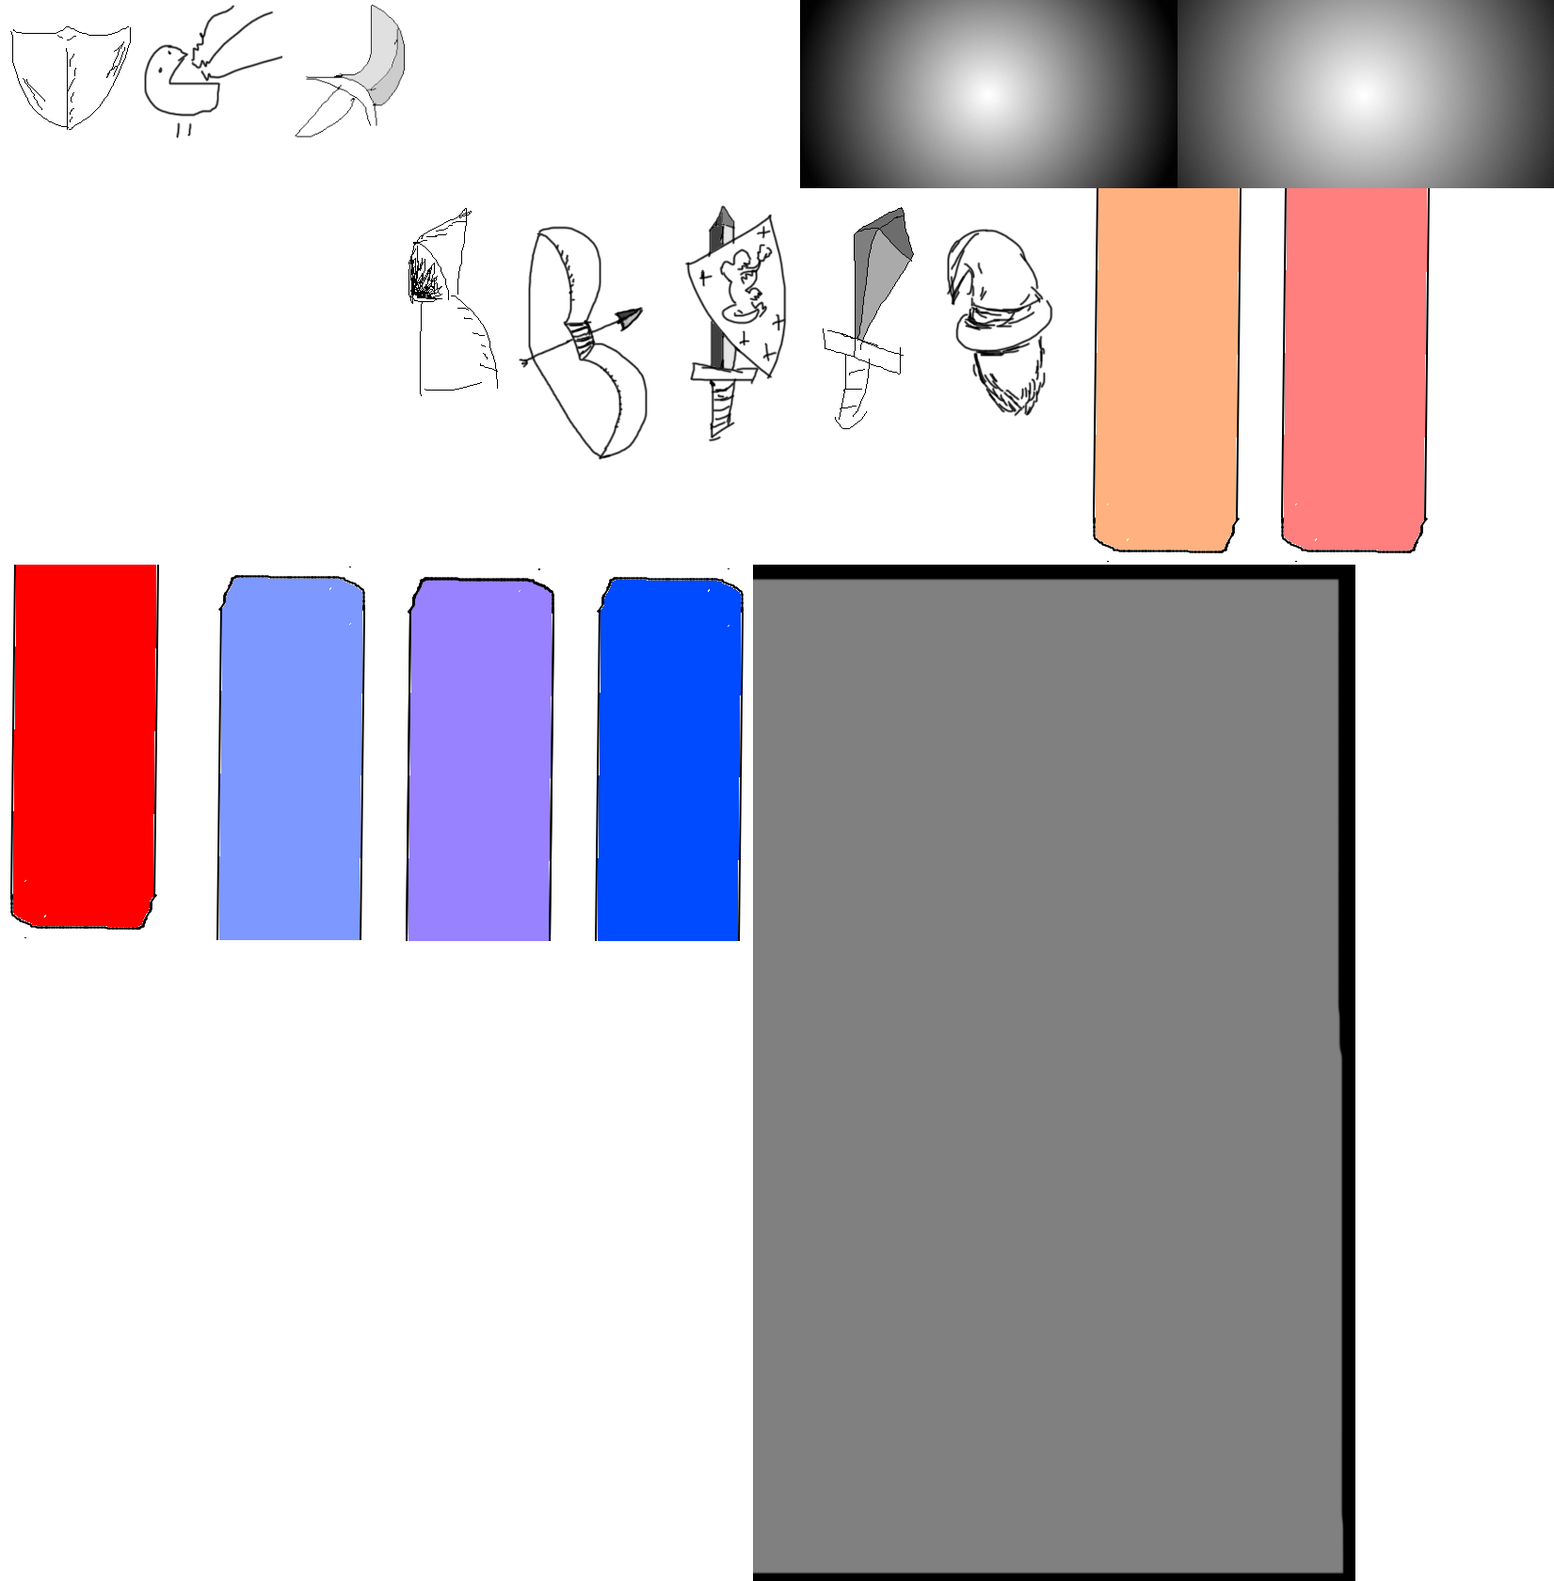
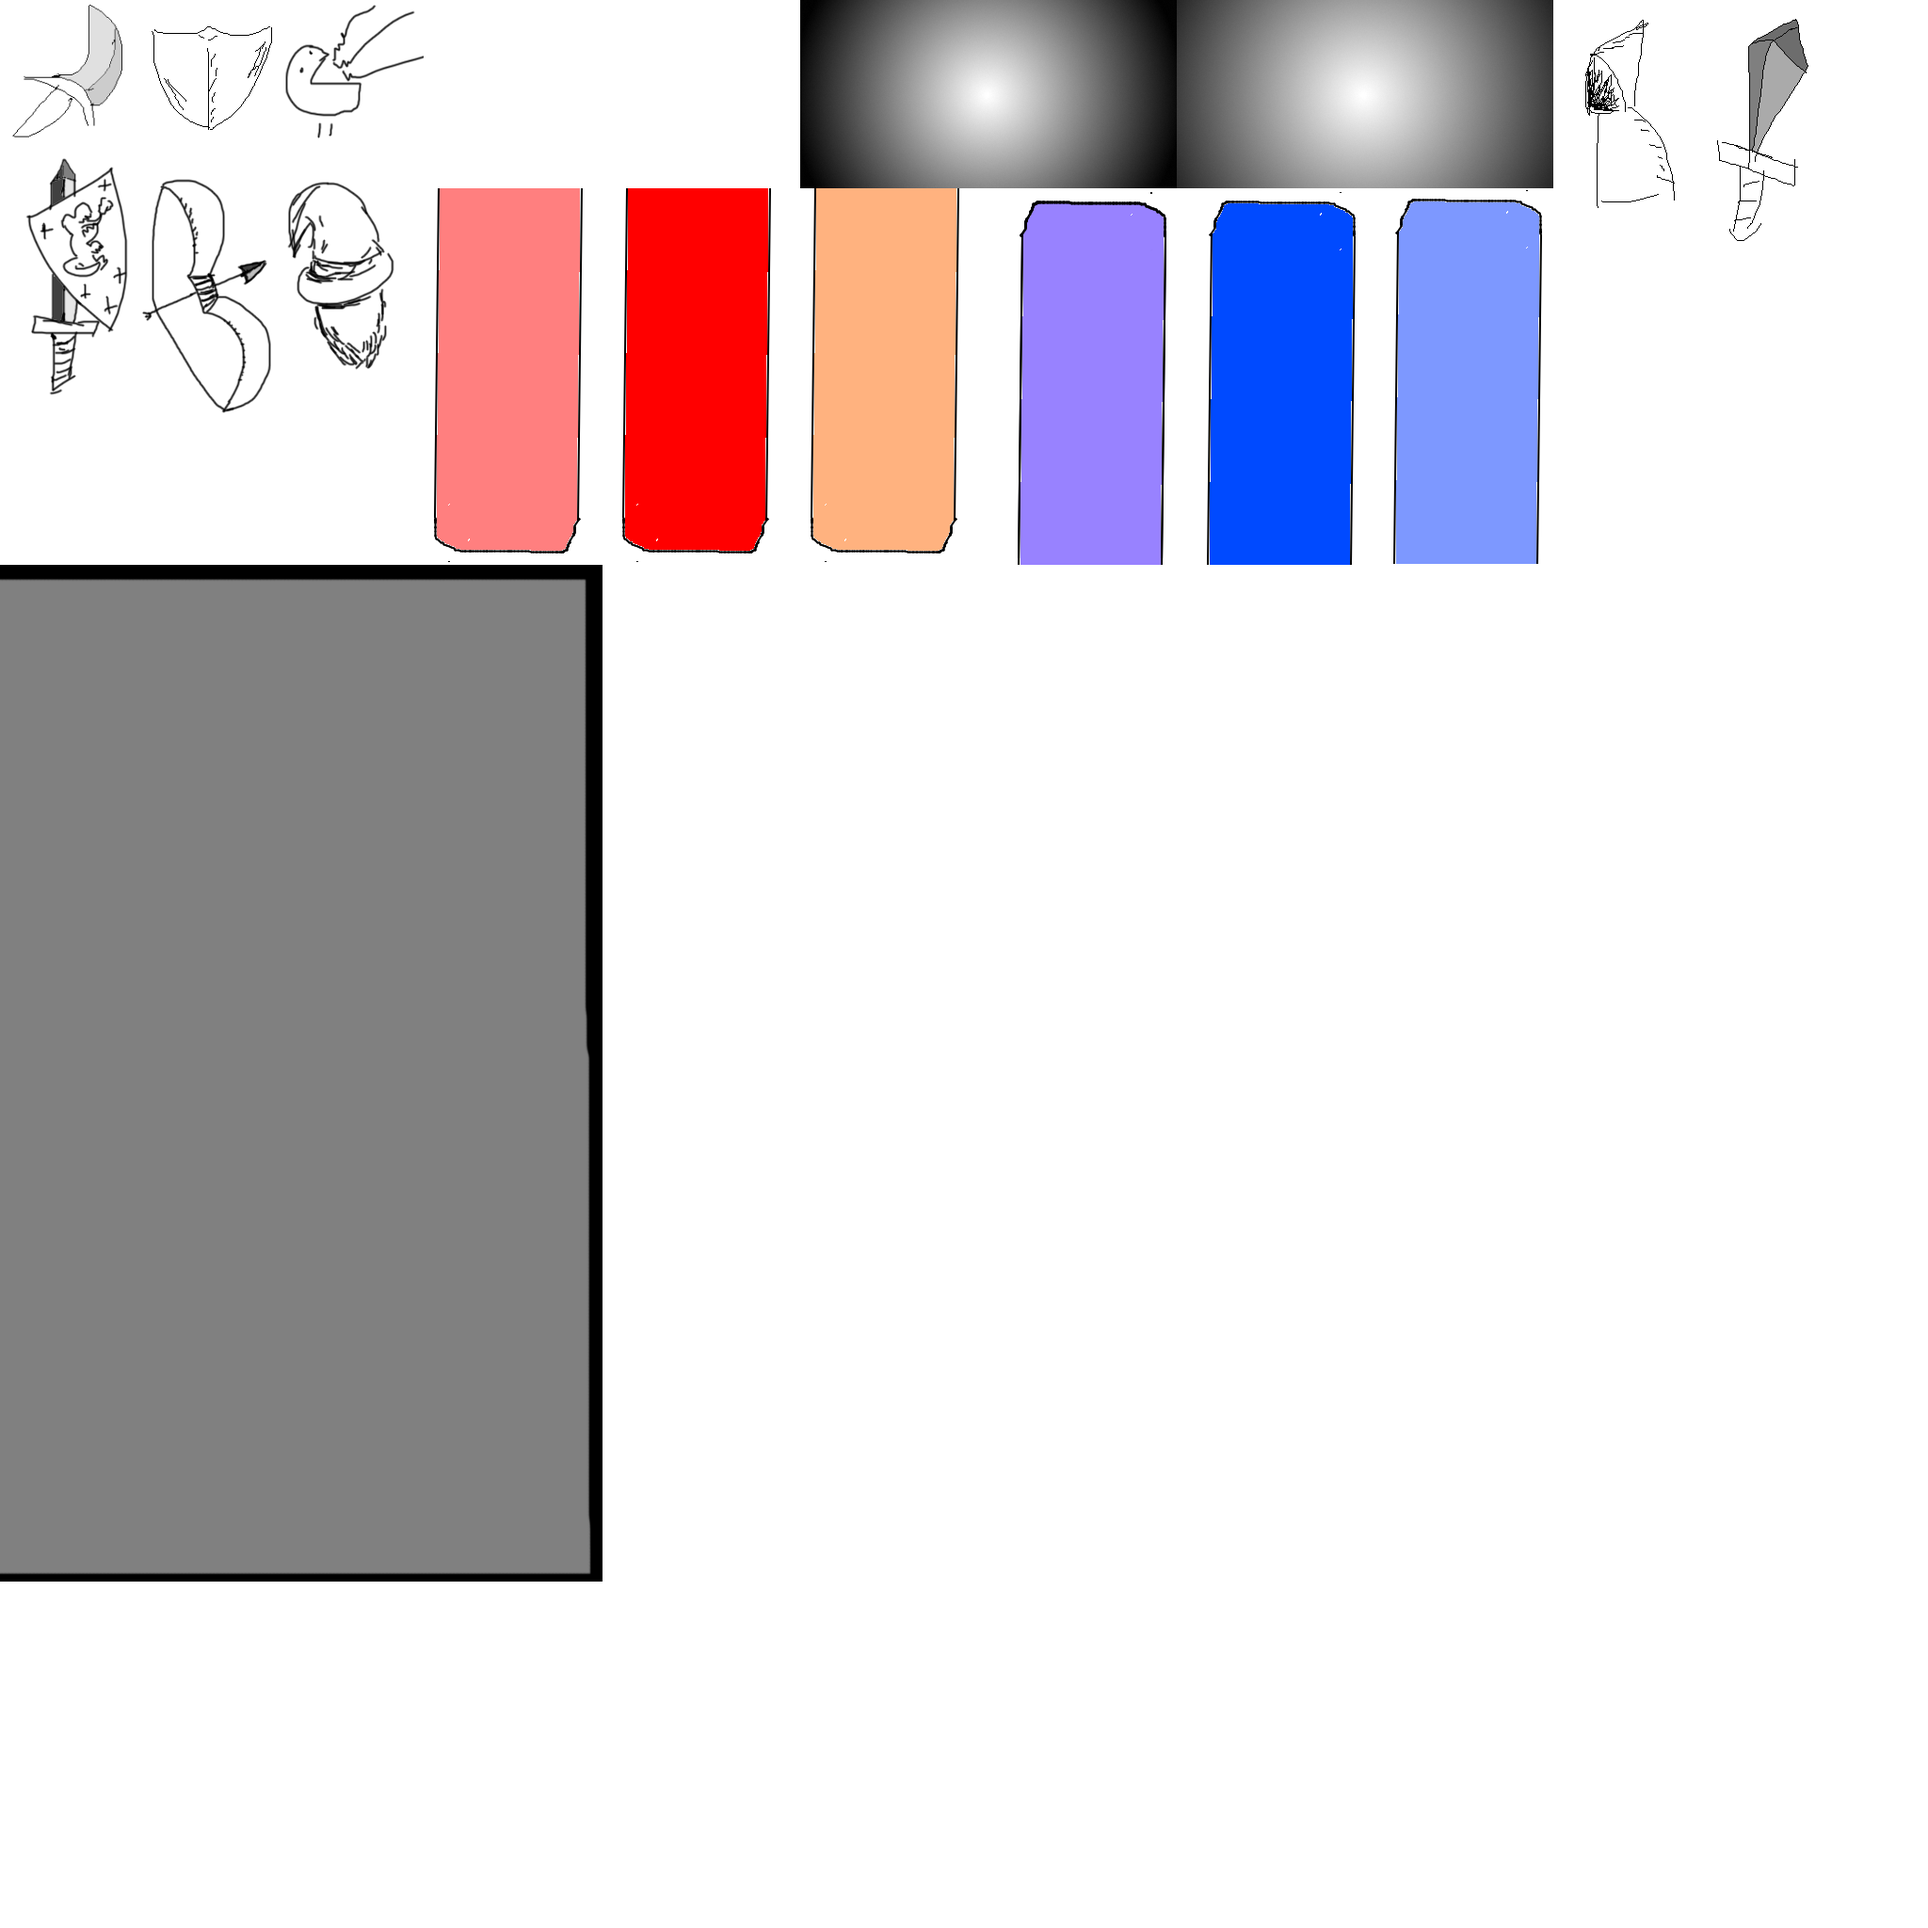
atlas script

diff --git a/src/app/data/gen/atlas1.ts b/src/app/data/gen/atlas1.ts
@@ -1,0 +1,5 @@
+// Automatically generated by create-atlas.py, do not edit
+
+export type Atlas1 = {"fr_unit_a1_l1_01_ab1.png": {"x": 0, "y": 0, "width": 150, "height": 150}, "fr_unit_a1_l1_01_ab2.png": {"x": 150, "y": 0, "width": 150, "height": 150}, "fr_unit_a1_l2_01_ab1.png": {"x": 300, "y": 0, "width": 150, "height": 150}, "btn_level_neutral.png": {"x": 450, "y": 0, "width": 400, "height": 200}, "btn_level_click.png": {"x": 850, "y": 0, "width": 400, "height": 200}, "btn_level_hover.png": {"x": 1250, "y": 0, "width": 400, "height": 200}, "en_unit_a1_l1_01.png": {"x": 1650, "y": 0, "width": 150, "height": 300}, "fr_unit_a1_l1_01.png": {"x": 1800, "y": 0, "width": 150, "height": 300}, "fr_unit_a1_l2_01.png": {"x": 0, "y": 150, "width": 150, "height": 300}, "fr_unit_a1_l2_02.png": {"x": 150, "y": 150, "width": 150, "height": 300}, "fr_unit_a1_l2_03.png": {"x": 300, "y": 150, "width": 150, "height": 300}, "bmark_neutral.png": {"x": 450, "y": 200, "width": 200, "height": 400}, "bmark_click.png": {"x": 650, "y": 200, "width": 200, "height": 400}, "bmark_hover.png": {"x": 850, "y": 200, "width": 200, "height": 400}, "bt_bmark_neutral.png": {"x": 1050, "y": 200, "width": 200, "height": 400}, "bt_bmark_click.png": {"x": 1250, "y": 200, "width": 200, "height": 400}, "bt_bmark_hover.png": {"x": 1450, "y": 200, "width": 200, "height": 400}, "box.png": {"x": 0, "y": 600, "width": 640, "height": 1080}}
+
+export const atlas1: Atlas1 = {"fr_unit_a1_l1_01_ab1.png": {"x": 0, "y": 0, "width": 150, "height": 150}, "fr_unit_a1_l1_01_ab2.png": {"x": 150, "y": 0, "width": 150, "height": 150}, "fr_unit_a1_l2_01_ab1.png": {"x": 300, "y": 0, "width": 150, "height": 150}, "btn_level_neutral.png": {"x": 450, "y": 0, "width": 400, "height": 200}, "btn_level_click.png": {"x": 850, "y": 0, "width": 400, "height": 200}, "btn_level_hover.png": {"x": 1250, "y": 0, "width": 400, "height": 200}, "en_unit_a1_l1_01.png": {"x": 1650, "y": 0, "width": 150, "height": 300}, "fr_unit_a1_l1_01.png": {"x": 1800, "y": 0, "width": 150, "height": 300}, "fr_unit_a1_l2_01.png": {"x": 0, "y": 150, "width": 150, "height": 300}, "fr_unit_a1_l2_02.png": {"x": 150, "y": 150, "width": 150, "height": 300}, "fr_unit_a1_l2_03.png": {"x": 300, "y": 150, "width": 150, "height": 300}, "bmark_neutral.png": {"x": 450, "y": 200, "width": 200, "height": 400}, "bmark_click.png": {"x": 650, "y": 200, "width": 200, "height": 400}, "bmark_hover.png": {"x": 850, "y": 200, "width": 200, "height": 400}, "bt_bmark_neutral.png": {"x": 1050, "y": 200, "width": 200, "height": 400}, "bt_bmark_click.png": {"x": 1250, "y": 200, "width": 200, "height": 400}, "bt_bmark_hover.png": {"x": 1450, "y": 200, "width": 200, "height": 400}, "box.png": {"x": 0, "y": 600, "width": 640, "height": 1080}}

diff --git a/scripts/create-atlas.py b/scripts/create-atlas.py
@@ -1,8 +1,72 @@
 import os
+import json
 
-atlasNames = ["test"]
+# https://stackoverflow.com/a/17548459
+def inplace_change(filename, old_string, new_string):
+    # Safely read the input filename using 'with'
+    with open(filename) as f:
+        s = f.read()
+        if old_string not in s:
+            print(f"\"{old_string}\" not found in {filename}.")
+            return
 
-for atlas in atlasNames:
-  print(f"creating atlas {atlas}")
-  os.system(f"texpack --output ../assets/{atlas} --POT {atlas}.txt")
+    # Safely write the changed content, if found in the file
+    with open(filename, 'w') as f:
+        print (f"Changing \"{old_string}\" to \"{new_string}\" in {filename}")
+        s = s.replace(old_string, new_string)
+        f.write(s)
 
+def gen_ts(atlas):
+  with open(f"assets/{atlas}.json") as f:
+    s = f.read()
+
+  s = json.loads(s)
+  type_name = atlas.capitalize()
+  content = json.dumps(s["sprites"])
+  type_decl = f"export type {type_name} = {content}"
+  const_decl = f"export const {atlas}: {type_name} = {content}"
+  
+  ts_file = f"src/app/data/gen/{atlas}.ts"
+  os.system(f"touch {ts_file}")
+  with open(ts_file, 'w') as f:
+    f.write(f"// Automatically generated by create-atlas.py, do not edit\n\n{type_decl}\n\n{const_decl}")
+
+def adapt_format(atlas):
+  filename = f"assets/{atlas}.json"
+  with open(filename) as f:
+    s = f.read()
+  
+  s = json.loads(s)
+
+  frames = ""
+  for sprite in s["sprites"]:
+    frame_field = json.dumps(s["sprites"][sprite]).replace("width", "w").replace("height", "h")
+    x = f'"{sprite}": ' + '{' + f'"frame":{frame_field}' + '}'
+    if frames:
+      frames = f"{frames},{x}"
+    else:
+      frames = x
+
+  new_s = '{' + f'"frames":' + '{' + f'{frames}' + '}' + '}'
+
+  with open(filename, 'w') as f:
+    f.write(new_s)
+
+atlas_names = ["atlas1"]
+
+for atlas in atlas_names:
+  # run texpack
+  print(f"texpack for atlas {atlas}")
+  os.system(f"texpack --output assets/{atlas} --POT scripts/{atlas}.txt")
+
+  # prettify texture names
+  print(f"prettify texture names for atlas {atlas}")
+  inplace_change(f"assets/{atlas}.json", "textures/", "")
+
+  # create generated ts file
+  print(f"creating .ts file for atlas {atlas}")
+  gen_ts(atlas)
+
+  # adapt json format
+  print(f"adapting json format for atlas {atlas}")
+  adapt_format(atlas)
